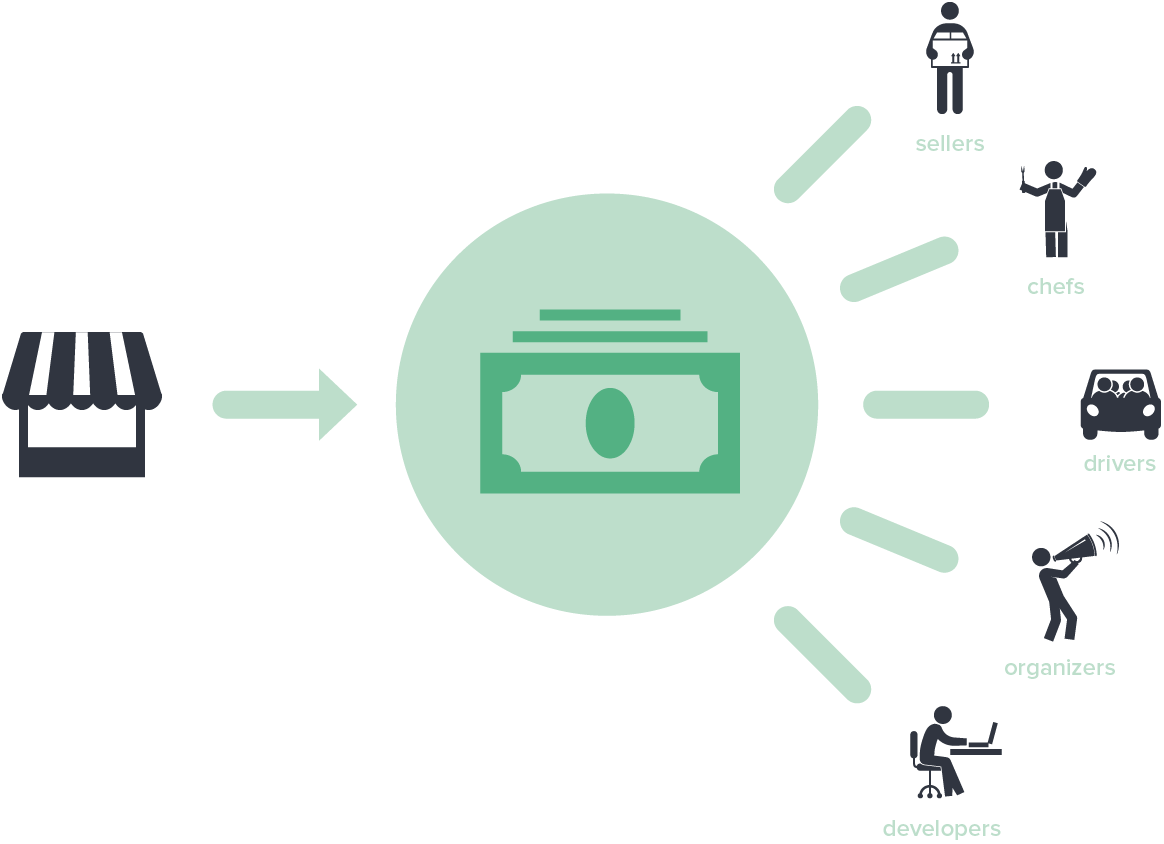
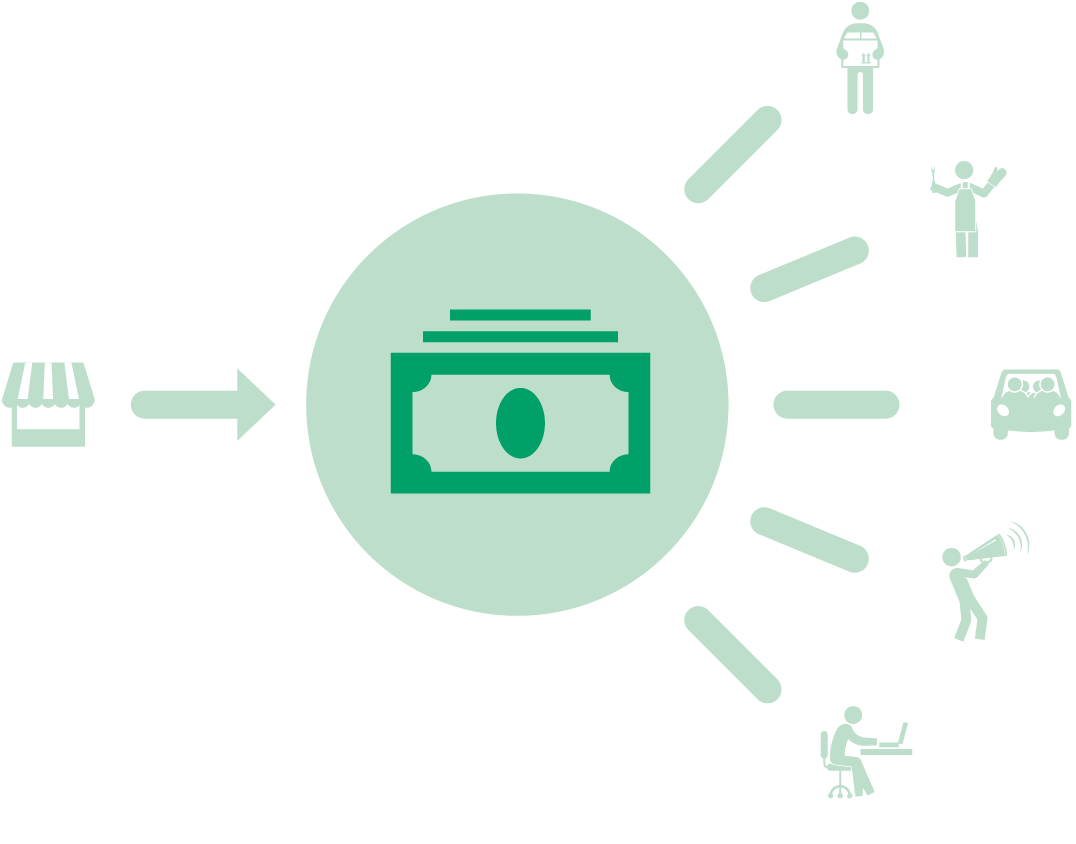
Update hero image

diff --git a/static/less/index.less b/static/less/index.less
@@ -93,10 +93,10 @@ footer {
 
   .hero-image {
     background: url(/images/hero_image.png);
-    width: 582px;
+    width: 538px;
     height: 422px;
     background-size: contain;
-    margin: 30px 65px;
+    margin: 30px 25px;
     float: right;
   }
 }
